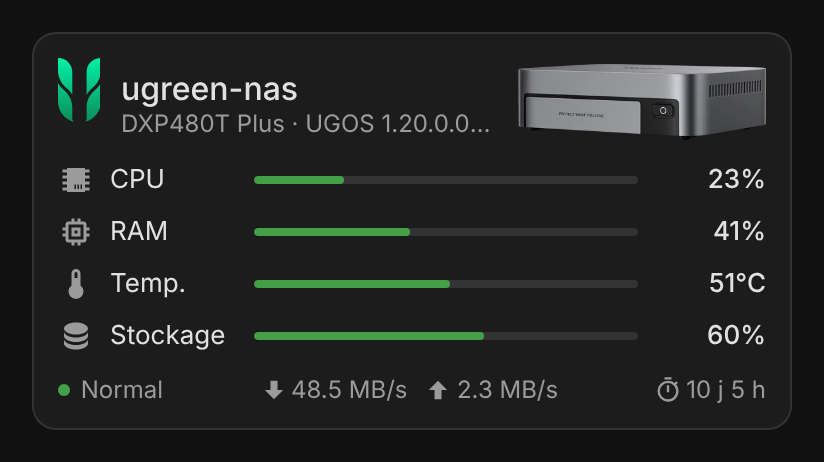
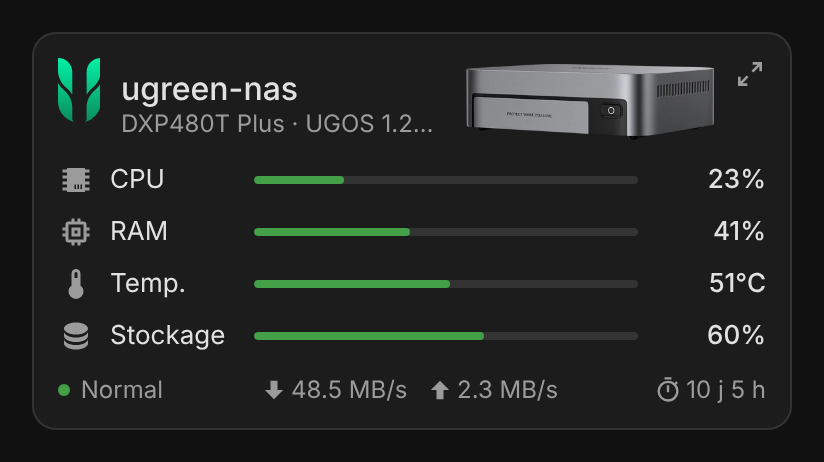
Mini card zoom: show the full card and back (1.5.0) (#12)
## Summary
- The mini card now has a small round zoom button at the far right of
its header (`mdi:arrow-expand`, "Show the full card"). It switches the
mini card to the full UGREEN NAS card's content for the same NAS and
configuration: gauges, uptime and CPU model, network, volumes, disks and
fans. The button then becomes `mdi:arrow-collapse` ("Back to the compact
view") and takes you back.
- A click anywhere outside the card brings the compact view back
(document click listener in capture phase, added in `connectedCallback`
and removed in `disconnectedCallback`). Clicks on the card itself, or in
a dialog opened from it (`ha-more-info-dialog`, `ha-dialog`, `dialog`),
leave it as it is.
- The button click calls `stopPropagation`, so it never opens more-info.
When the click comes from the keyboard, focus moves back to the new
button.
- New `zoom` option, on by default, with an EN/FR label and helper in
the visual editor. `zoom: false` removes the button. The option is left
out of the YAML when it is at its default.
- `getCardSize` / `getGridOptions` return the full card's values while
zoomed in.
- `UgreenNasMiniCard` now extends `UgreenNasCard`, so the full card's
markup is reused and not duplicated (jscpd: 0 clones). The UGREEN logo
size is unchanged.
- Version 1.5.0: CHANGELOG, README (feature bullet, `zoom` option row,
screenshots).

## Screenshots
| | Light | Dark (French) |
|---|---|---|
| Mini card |
[…]

Changed region(s): [[0.4854, 0.1212, 0.9405, 0.303], [0.5158, 0.8182, 0.5461, 0.8788]]

diff --git a/src/ugreen-nas-card.js b/src/ugreen-nas-card.js
@@ -20,6 +20,9 @@ const ICONS = {
   disk: "M6,2H18A2,2 0 0,1 20,4V20A2,2 0 0,1 18,22H6A2,2 0 0,1 4,20V4A2,2 0 0,1 6,2M12,4A6,6 0 0,0 6,10C6,13.31 8.69,16 12.1,16L11.22,13.77C10.95,13.29 11.11,12.68 11.59,12.4L12.45,11.9C12.93,11.63 13.54,11.79 13.82,12.27L15.74,14.69C17.12,13.59 18,11.9 18,10A6,6 0 0,0 12,4M12,9A1,1 0 0,1 13,10A1,1 0 0,1 12,11A1,1 0 0,1 11,10A1,1 0 0,1 12,9M7,18A1,1 0 0,0 6,19A1,1 0 0,0 7,20A1,1 0 0,0 8,19A1,1 0 0,0 7,18M12.09,13.27L14.58,19.58L17.17,18.08L12.95,12.77L12.09,13.27Z",
   database: "M12,3C7.58,3 4,4.79 4,7C4,9.21 7.58,11 12,11C16.42,11 20,9.21 20,7C20,4.79 16.42,3 12,3M4,9V12C4,14.21 7.58,16 12,16C16.42,16 20,14.21 20,12V9C20,11.21 16.42,13 12,13C7.58,13 4,11.21 4,9M4,14V17C4,19.21 7.58,21 12,21C16.42,21 20,19.21 20,17V14C20,16.21 16.42,18 12,18C7.58,18 4,16.21 4,14Z",
   timer: "M12,20A7,7 0 0,1 5,13A7,7 0 0,1 12,6A7,7 0 0,1 19,13A7,7 0 0,1 12,20M19.03,7.39L20.45,5.97C20,5.46 19.55,5 19.04,4.56L17.62,6C16.07,4.74 14.12,4 12,4A9,9 0 0,0 3,13A9,9 0 0,0 12,22C17,22 21,17.97 21,13C21,10.88 20.26,8.93 19.03,7.39M11,14H13V8H11M15,1H9V3H15V1Z",
+  // mdi:arrow-expand and mdi:arrow-collapse, the mini card's zoom button.
+  expand: "M10,21V19H6.41L10.91,14.5L9.5,13.09L5,17.59V14H3V21H10M14.5,10.91L19,6.41V10H21V3H14V5H17.59L13.09,9.5L14.5,10.91Z",
+  collapse: "M19.5,3.09L15,7.59V4H13V11H20V9H16.41L20.91,4.5L19.5,3.09M4,13V15H7.59L3.09,19.5L4.5,20.91L9,16.41V20H11V13H4Z",
   network: "M13,19H14A1,1 0 0,1 15,20H22V22H15A1,1 0 0,1 14,23H10A1,1 0 0,1 9,22H2V20H9A1,1 0 0,1 10,19H11V17H4A1,1 0 0,1 3,16V12A1,1 0 0,1 4,11H20A1,1 0 0,1 21,12V16A1,1 0 0,1 20,17H13V19M4,3H20A1,1 0 0,1 21,4V8A1,1 0 0,1 20,9H4A1,1 0 0,1 3,8V4A1,1 0 0,1 4,3M9,7H10V5H9V7M9,15H10V13H9V15M5,5V7H7V5H5M5,13V15H7V13H5Z",
 };
 
@@ -46,6 +49,8 @@ const STRINGS = {
     status_ok: "Normal",
     cpu_fan: "CPU fan",
     device_fan: "Fan",
+    zoom_in: "Show the full card",
+    zoom_out: "Back to the compact view",
     // Editor
     nas: "NAS (UGREEN NAS integration device)",
     title: "Title (optional, defaults to the NAS name)",
@@ -56,6 +61,8 @@ const STRINGS = {
     show_disks: "Show disks",
     show_fans: "Show fans",
     show_storage: "Show storage",
+    zoom: "Zoom button",
+    zoom_helper: "Switches the mini card to the full card and back",
     language: "Language",
     lang_auto: "Automatic",
   },
@@ -81,6 +88,8 @@ const STRINGS = {
     status_ok: "Normal",
     cpu_fan: "Ventilateur CPU",
     device_fan: "Ventilateur",
+    zoom_in: "Afficher la carte complète",
+    zoom_out: "Revenir à la vue compacte",
     nas: "NAS (appareil de l'intégration UGREEN NAS)",
     title: "Titre (facultatif, nom du NAS par défaut)",
     show_image: "Afficher la photo du NAS",
@@ -90,6 +99,8 @@ const STRINGS = {
     show_disks: "Afficher les disques",
     show_fans: "Afficher les ventilateurs",
     show_storage: "Afficher le stockage",
+    zoom: "Bouton zoom",
+    zoom_helper: "Bascule la mini-carte en carte complète, et inversement",
     language: "Langue",
     lang_auto: "Automatique",
   },
@@ -403,7 +414,14 @@ const BASE_STYLE = `
   .name { font-size: 16px; font-weight: 500; line-height: 1.25; white-space: nowrap; overflow: hidden; text-overflow: ellipsis; }
   .sub { font-size: 12px; color: var(--secondary-text-color); white-space: nowrap; overflow: hidden; text-overflow: ellipsis; }
   .warning { padding: 16px; color: var(--ug-warn); }
+  .zoom { all: unset; flex: none; align-self: flex-start; cursor: pointer; width: 24px; height: 24px; margin: -4px -4px 0 -4px;
+          border-radius: 50%; display: grid; place-items: center; color: var(--secondary-text-color); }
+  .zoom .icon { width: 16px; height: 16px; }
+  .zoom:hover { background: color-mix(in srgb, var(--secondary-text-color) 16%, transparent); color: var(--primary-text-color); }
+  .zoom:focus-visible { outline: 2px solid var(--primary-color, #03a9f4); outline-offset: 1px; }
 `;
+// A click inside a dialog (more-info opened from the card, say) is not a click outside the card.
+const inDialog = (ev) => ev.composedPath().some((n) => ["ha-more-info-dialog", "ha-dialog", "dialog"].includes(n.localName));
 
 class UgreenNasBase extends HTMLElement {
   constructor() {
@@ -510,7 +528,13 @@ class UgreenNasBase extends HTMLElement {
           }
         </div>
         ${c.show_image !== false ? `<img class="nas" src="${IMG_NAS}" alt="NAS">` : ""}
+        ${this._zoomButton()}
       </div>`;
+  }
+
+  // Button at the far right of the header: only the mini card has one.
+  _zoomButton() {
+    return "";
   }
 
   _noNas() {
@@ -778,21 +802,57 @@ const MINI_STYLE = `
   .foot .icon { width: 14px; height: 14px; }
 `;
 
-class UgreenNasMiniCard extends UgreenNasBase {
+// The mini card extends the full card: its zoom button (top right, `zoom: false` removes it) switches it to the
+// full card's content, same configuration, and back; a click anywhere outside the card brings it back too.
+class UgreenNasMiniCard extends UgreenNasCard {
   static getConfigElement() {
     return document.createElement("ugreen-nas-mini-card-editor");
   }
 
-  static getStubConfig(hass) {
-    return UgreenNasCard.getStubConfig(hass);
+  constructor() {
+    super();
+    this._zoomed = false;
+    this.shadowRoot.addEventListener("click", (ev) => this._zoomClick(ev));
+    // A click outside the card, and not in a dialog opened from it, brings it back to the compact view.
+    this._onOutside = (ev) => {
+      if (this._zoomed && !ev.composedPath().includes(this) && !inDialog(ev)) this._setZoom(false);
+    };
+  }
+
+  connectedCallback() {
+    document.addEventListener("click", this._onOutside, true);
+  }
+
+  disconnectedCallback() {
+    document.removeEventListener("click", this._onOutside, true);
   }
 
   getCardSize() {
-    return 3;
+    return this._zoomed ? super.getCardSize() : 3;
   }
 
   getGridOptions() {
-    return { columns: 6, min_columns: 6 };
+    return this._zoomed ? super.getGridOptions() : { columns: 6, min_columns: 6 };
+  }
+
+  _setZoom(zoomed) {
+    this._zoomed = zoomed;
+    this._update(this._sig);
+  }
+
+  // A click on the zoom button: never a tap on anything else of the card.
+  _zoomClick(ev) {
+    if (!ev.target?.closest?.(".zoom")) return;
+    ev.stopPropagation();
+    this._setZoom(!this._zoomed);
+    // Keyboard use (Enter / Space: no click count) keeps the focus on the button.
+    if (ev.detail === 0) this.shadowRoot.querySelector(".zoom")?.focus();
+  }
+
+  _zoomButton() {
+    if (this._config.zoom === false) return "";
+    const z = this._zoomed;
+    return `<button class="zoom" title="${esc(this._t(z ? "zoom_out" : "zoom_in"))}">${svgIcon(z ? ICONS.collapse : ICONS.expand)}</button>`;
   }
 
   _metric(id, icon, label, pct, display, cls) {
@@ -804,6 +864,7 @@ class UgreenNasMiniCard extends UgreenNasBase {
   }
 
   _render() {
+    if (this._zoomed) return super._render();
     const nas = discover(this._hass, this._config.nas);
     if (!nas.nasId) return this._noNas();
     const c = this._config;
@@ -880,6 +941,11 @@ class UgreenNasEditorBase extends HTMLElement {
     this._render();
   }
 
+  // Boolean options, all on by default.
+  _toggles() {
+    return ["show_image", ...this.constructor.toggles];
+  }
+
   _schema() {
     const nasOptions = this._hass ? listNas(this._hass) : [];
     const tr = (k) => t(this._hass, this._config, k);
@@ -918,12 +984,13 @@ class UgreenNasEditorBase extends HTMLElement {
     if (!this._form) {
       this._form = document.createElement("ha-form");
       this._form.computeLabel = (s) => t(this._hass, this._config, s.name);
+      this._form.computeHelper = (s) => STRINGS[lang(this._hass, this._config)][`${s.name}_helper`];
       this._form.addEventListener("value-changed", (ev) => {
         ev.stopPropagation();
         const config = { ...ev.detail.value };
         for (const [k, v] of Object.entries(config)) {
           // Keep the YAML minimal: drop empty values and toggles left at their default (true).
-          if (v === "" || v === undefined || v === null || (k.startsWith("show_") && v === true)) delete config[k];
+          if (v === "" || v === undefined || v === null || (this._toggles().includes(k) && v === true)) delete config[k];
         }
         this._config = config;
         this.dispatchEvent(new CustomEvent("config-changed", { detail: { config }, bubbles: true, composed: true }));
@@ -931,7 +998,7 @@ class UgreenNasEditorBase extends HTMLElement {
       this.appendChild(this._form);
     }
     const data = { ...this._config };
-    for (const name of ["show_image", ...this.constructor.toggles]) if (data[name] === undefined) data[name] = true;
+    for (const name of this._toggles()) if (data[name] === undefined) data[name] = true;
     if (!data.nas && this._hass) data.nas = listNas(this._hass)[0]?.value;
     this._form.hass = this._hass;
     this._form.data = data;
@@ -947,7 +1014,7 @@ class UgreenNasCardEditor extends UgreenNasEditorBase {
 
 class UgreenNasMiniCardEditor extends UgreenNasEditorBase {
   static get toggles() {
-    return ["show_storage", "show_network"];
+    return ["show_storage", "show_network", "zoom"];
   }
 }
 

diff --git a/README.md b/README.md
@@ -21,6 +21,7 @@ The cards are built on top of the [UGREEN NAS integration](https://github.com/To
 ## Features
 
 - Two cards: a full **UGREEN NAS Card** and a compact **UGREEN NAS Mini Card**
+- Zoom button at the top right of the mini card: it switches to the full card (gauges, network, volumes, disks and fans of the same NAS) and back; a click anywhere outside the card brings the compact view back
 - Automatic discovery of the UGREEN NAS integration entities (several NAS supported)
 - CPU, RAM and CPU temperature gauges, uptime and CPU model
 - Network download / upload rates
@@ -104,6 +105,7 @@ title: My NAS
 show_image: true
 show_storage: true
 show_network: true
+zoom: true
 language: fr
 ```
 
@@ -120,6 +122,7 @@ language: fr
 | `show_disks` | full | `true` | Disks details |
 | `show_fans` | full | `true` | Fans speed |
 | `show_storage` | mini | `true` | Overall storage usage bar |
+| `zoom` | mini | `true` | Zoom button at the top right: switches to the full card and back (`false` removes it) |
 | `language` | both | Auto | Force language: `fr` or `en` (auto-detects from HA settings) |
 
 ## Screenshots
@@ -128,6 +131,7 @@ language: fr
 |---|---|
 | ![card](screenshots/card.png) | ![card dark](screenshots/card-dark.png) |
 | ![mini card](screenshots/mini-card.png) | ![mini card dark](screenshots/mini-card-dark.png) |
+| ![mini card zoomed in](screenshots/mini-card-zoom.png) | ![mini card zoomed in dark](screenshots/mini-card-zoom-dark.png) |
 
 ## How it works
 

diff --git a/CHANGELOG.md b/CHANGELOG.md
@@ -1,5 +1,13 @@
 # Changelog
 
+## 1.5.0
+
+### What's new
+- Zoom button at the top right of the mini card: it shows the full card for the same NAS (gauges, uptime and CPU model, network, volumes, disks and fans), and a second click brings the compact view back. A click anywhere outside the card also folds it back; clicks on the card or in a dialog opened from it (more-info) do not. New `zoom` option (on by default, in the visual editor): `zoom: false` removes the button.
+
+### Maintenance
+- Tests for the zoom; light and dark screenshots of the zoomed-in mini card.
+
 ## 1.4.2
 
 ### Fixes
